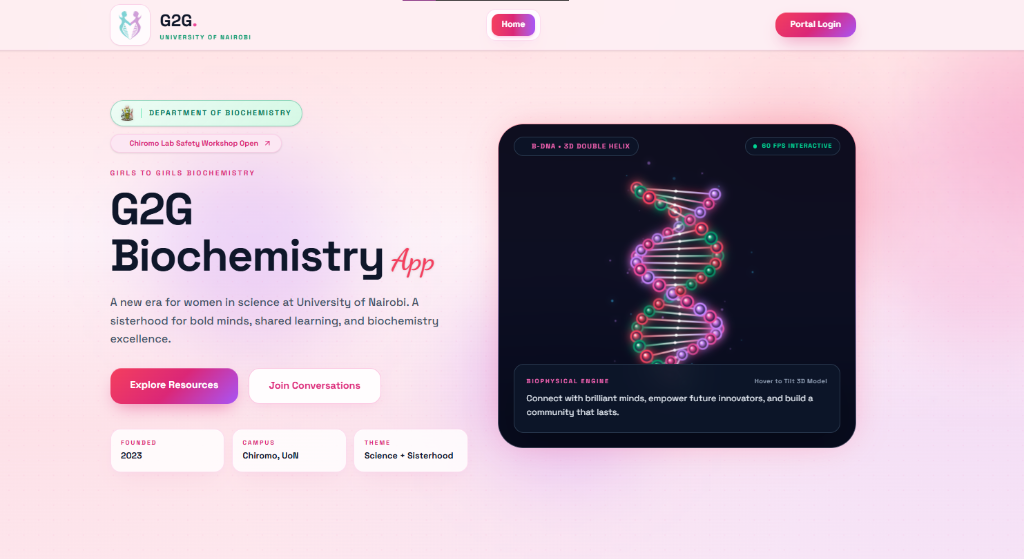
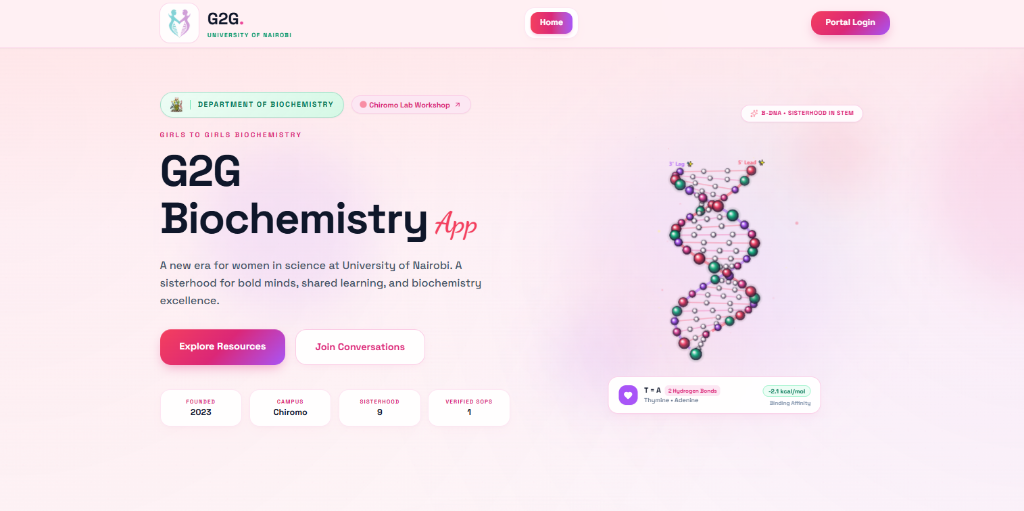
added PostMatic project, update asset images, and initialize project progress tracker

diff --git a/index.html b/index.html
@@ -101,7 +101,7 @@
                         Front-End Engineer // Flyrank AI</span><span class="typewriter-cursor">_</span>
                 </p>
                 <p class="hero-bio">
-                    Biochemistry Graduate turned <strong>Agentic Software Engineer</strong>. Building responsive AI
+                    Biochemistry Graduate turned <strong>Full-Stack AI Engineer</strong>. Building responsive AI
                     applications, quantitative market models, and computational molecular tools.
                 </p>
                 <div class="cta-buttons">
@@ -230,14 +230,14 @@
             <!-- Project Category Filter Tabs -->
             <div class="project-filters reveal" id="project-filters">
                 <button class="filter-tab active" data-filter="all">
-                    <span class="tab-bracket">[</span> ALL (6) <span class="tab-bracket">]</span>
+                    <span class="tab-bracket">[</span> ALL (7) <span class="tab-bracket">]</span>
                 </button>
                 <button class="filter-tab" data-filter="bio">
                     <span class="tab-bracket">[</span> BIOINFORMATICS &amp; DOCKING (4) <span
                         class="tab-bracket">]</span>
                 </button>
                 <button class="filter-tab" data-filter="web">
-                    <span class="tab-bracket">[</span> FULL-STACK WEB APPS (2) <span class="tab-bracket">]</span>
+                    <span class="tab-bracket">[</span> FULL-STACK WEB APPS (3) <span class="tab-bracket">]</span>
                 </button>
             </div>
 
@@ -246,7 +246,8 @@
                 <!-- Bio-Dock -->
                 <article class="project-card reveal hero-card" id="project-biodock" data-category="bio">
                     <div class="project-thumb-wrap">
-                        <img src="assets/projects/biodock.png" alt="Bio-Dock In-Silico Molecular Docking & 3D WebGL Visualization Platform Preview"
+                        <img src="assets/projects/biodock.png"
+                            alt="Bio-Dock In-Silico Molecular Docking & 3D WebGL Visualization Platform Preview"
                             class="project-thumb" loading="lazy">
                         <div class="thumb-overlay"></div>
                         <span class="badge badge-live"><span class="badge-dot"></span> Live Application</span>
@@ -257,7 +258,10 @@
                         </div>
                         <h3>Bio-Dock</h3>
                         <p>
-                            An asynchronous, full-stack in-silico ligand docking and 3D visualization web application. Brings molecular docking simulations to the web with an intuitive interface for running ligand-protein docking and visually analyzing structural interactions in a fully interactive 3D WebGL environment.
+                            An asynchronous, full-stack in-silico ligand docking and 3D visualization web application.
+                            Brings molecular docking simulations to the web with an intuitive interface for running
+                            ligand-protein docking and visually analyzing structural interactions in a fully interactive
+                            3D WebGL environment.
                         </p>
                         <ul class="tech-pills">
                             <li class="tech-pill">FastAPI (Python)</li>
@@ -272,6 +276,44 @@
                                 Launch Platform <span>&#8599;</span>
                             </a>
                             <button class="project-link link-details" data-project="biodock">
+                                Architecture &amp; Specs <span>&rarr;</span>
+                            </button>
+                        </div>
+                    </div>
+                </article>
+
+                <!-- PostMatic -->
+                <article class="project-card reveal" id="project-postmatic" data-category="web">
+                    <div class="project-thumb-wrap">
+                        <img src="assets/projects/postmatic.png" alt="PostMatic Autonomous Faceless Video SaaS Preview"
+                            class="project-thumb" loading="lazy">
+                        <div class="thumb-overlay"></div>
+                        <span class="badge badge-live"><span class="badge-dot"></span> Live SaaS</span>
+                    </div>
+                    <div class="project-content">
+                        <div class="project-meta">
+                            <span class="project-type">Full-Stack AI Video SaaS</span>
+                        </div>
+                        <h3>PostMatic</h3>
+                        <p>
+                            An autonomous faceless video generator and social publisher tailored for YouTube Shorts,
+                            TikTok, and Instagram Reels. Orchestrates AI multi-scene scriptwriting, neural voiceovers,
+                            dynamic karaoke subtitles, 4K b-roll sourcing, and FFmpeg cloud rendering into high-retention
+                            9:16 vertical videos.
+                        </p>
+                        <ul class="tech-pills">
+                            <li class="tech-pill">Next.js 16 (React 19)</li>
+                            <li class="tech-pill">FastAPI (Python)</li>
+                            <li class="tech-pill">Google Gemini</li>
+                            <li class="tech-pill">Supabase</li>
+                            <li class="tech-pill">FFmpeg &bull; Edge-TTS</li>
+                        </ul>
+                        <div class="project-links">
+                            <a href="https://post-matic.vercel.app/" target="_blank" rel="noopener noreferrer"
+                                class="project-link" id="link-postmatic-app">
+                                Launch Platform <span>&#8599;</span>
+                            </a>
+                            <button class="project-link link-details" data-project="postmatic">
                                 Architecture &amp; Specs <span>&rarr;</span>
                             </button>
                         </div>
@@ -319,7 +361,7 @@
                 <!-- DNA Counter -->
                 <article class="project-card reveal" id="project-dna" data-category="bio">
                     <div class="project-thumb-wrap">
-                        <img src="assets/projects/dna.jpg" alt="DNA Nucleotide Counter Dashboard Preview"
+                        <img src="assets/projects/dna.png" alt="DNA Nucleotide Counter Dashboard Preview"
                             class="project-thumb" loading="lazy">
                         <div class="thumb-overlay"></div>
                         <span class="badge badge-live"><span class="badge-dot"></span> Live Tool</span>
@@ -360,7 +402,7 @@
                 <!-- Garlic Research -->
                 <article class="project-card reveal" id="project-garlic" data-category="bio">
                     <div class="project-thumb-wrap">
-                        <img src="assets/projects/garlic.jpg" alt="Molecular Docking Simulation Preview"
+                        <img src="assets/projects/garlic.png" alt="Molecular Docking Simulation Preview"
                             class="project-thumb" loading="lazy">
                         <div class="thumb-overlay"></div>
                         <span class="badge badge-ongoing"><span class="badge-dot"></span> Active Research</span>
@@ -679,6 +721,11 @@
                 </div>
 
                 <div class="cmd-group-label">QUICK LAUNCH APPS</div>
+                <div class="cmd-item" data-action="link" data-url="https://post-matic.vercel.app/">
+                    <span class="cmd-item-icon">&#x2197;</span>
+                    <span class="cmd-item-title">Launch PostMatic Studio</span>
+                    <span class="cmd-item-desc">Autonomous Faceless Video SaaS</span>
+                </div>
                 <div class="cmd-item" data-action="link" data-url="https://bio-dock.vercel.app/">
                     <span class="cmd-item-icon">&#x2197;</span>
                     <span class="cmd-item-title">Launch Bio-Dock 3D Platform</span>
@@ -696,6 +743,11 @@
                 </div>
 
                 <div class="cmd-group-label">ACTIONS</div>
+                <div class="cmd-item" data-action="link" data-url="https://wa.me/254759663737?text=Hi%20Elias%2C%20I%20came%20across%20your%20portfolio%20and%20wanted%20to%20connect!">
+                    <span class="cmd-item-icon">&#x2197;</span>
+                    <span class="cmd-item-title">Chat on WhatsApp</span>
+                    <span class="cmd-item-desc">Direct Message (+254 759 663 737)</span>
+                </div>
                 <div class="cmd-item" data-action="download" data-url="assets/docs/resume.pdf">
                     <span class="cmd-item-icon">&#x2193;</span>
                     <span class="cmd-item-title">Download Resume / CV</span>
@@ -720,6 +772,18 @@
             </div>
         </div>
     </div>
+
+    <!-- ── Floating WhatsApp Comms Beacon ─────────────────────── -->
+    <a href="https://wa.me/254759663737?text=Hi%20Elias%2C%20I%20came%20across%20your%20portfolio%20and%20wanted%20to%20connect!"
+        class="wa-float-beacon" target="_blank" rel="noopener noreferrer"
+        aria-label="Direct WhatsApp Message to Elias">
+        <span class="wa-ping-dot" aria-hidden="true"></span>
+        <svg class="wa-icon" viewBox="0 0 24 24" fill="currentColor" aria-hidden="true">
+            <path
+                d="M.057 24l1.687-6.163c-1.041-1.804-1.588-3.849-1.587-5.946.003-6.556 5.338-11.891 11.893-11.891 3.181.001 6.167 1.24 8.413 3.488 2.245 2.248 3.481 5.236 3.48 8.414-.003 6.557-5.338 11.892-11.893 11.892-1.99-.001-3.951-.5-5.688-1.448l-6.305 1.654zm6.597-3.807c1.676.995 3.276 1.591 5.392 1.592 5.448 0 9.886-4.434 9.889-9.885.002-5.462-4.415-9.89-9.881-9.892-5.452 0-9.887 4.434-9.889 9.884-.001 2.225.651 3.891 1.746 5.634l-.999 3.648 3.742-.981zm11.387-5.464c-.074-.124-.272-.198-.57-.347-.297-.149-1.758-.868-2.031-.967-.272-.099-.47-.149-.669.149-.198.297-.768.967-.941 1.165-.173.198-.347.223-.644.074-.297-.149-1.255-.462-2.39-1.475-.883-.788-1.48-1.761-1.653-2.059-.173-.297-.018-.458.13-.606.134-.133.297-.347.446-.521.151-.172.2-.296.3-.495.099-.198.05-.372-.025-.521-.075-.148-.669-1.611-.916-2.206-.242-.579-.487-.501-.669-.51l-.57-.01c-.198 0-.52.074-.792.372s-1.04 1.016-1.04 2.479 1.065 2.876 1.213 3.074c.149.198 2.095 3.2 5.076 4.487.709.306 1.263.489 1.694.626.712.226 1.36.194 1.872.118.571-.085 1.758-.719 2.006-1.413.248-.695.248-1.29.173-1.414z" />
+        </svg>
+        <span class="wa-label">Chat on WhatsApp <span class="wa-label-arrow">&rarr;</span></span>
+    </a>
 
     <script src="script.js"></script>
 </body>

diff --git a/script.js b/script.js
@@ -162,7 +162,7 @@
   if (typewriterEl) {
     const roles = [
       'AI Front-End Engineer // Flyrank AI',
-      'Agentic Software Engineer // Next.js & React',
+      'Full-Stack AI Engineer',
       'Computational Biology Researcher // Molecular Docking',
       'Quantitative Researcher // WorldQuant BRAIN Gold Tier',
       'BSc. Biochemistry // University of Nairobi'
@@ -304,6 +304,33 @@
         { label: 'Launch Live Platform ↗', url: 'https://bio-dock.vercel.app/', primary: true }
       ]
     },
+    postmatic: {
+      tag: 'AUTONOMOUS AI VIDEO SAAS // NEXT.JS 16 + FASTAPI + GEMINI',
+      title: 'PostMatic: Autonomous Faceless Video SaaS & Publisher',
+      banner: 'assets/projects/postmatic.png',
+      desc: 'A full-stack, zero-OpEx autonomous faceless video generator and social publisher tailored for YouTube Shorts, TikTok, and Instagram Reels. It end-to-end automates scriptwriting, neural voiceover synthesis, synchronized karaoke subtitles, smart b-roll matching, and FFmpeg assembly into high-retention 9:16 vertical videos.',
+      problem: 'Content creators spend hours manually drafting scripts, recording voiceovers, hunting for stock footage, syncing captions word-by-word, and rendering vertical videos for social platforms.',
+      architecture: [
+        'Frontend UI: Next.js 16 (Turbopack), React 19, Tailwind CSS with live 9:16 smartphone player & multi-view workspaces',
+        'Backend API: FastAPI + Uvicorn (Python 3.12) asynchronous orchestration daemon & REST endpoints',
+        'LLM Scriptwriter: Google Gemini (google-genai SDK) with strict Pydantic multi-scene JSON schemas',
+        'Neural Voiceover: Microsoft edge-tts with sub-second word-boundary offsets for dynamic karaoke .ass captions',
+        'Media Pipeline: Pexels Video API v1 for 4K/HD clips + hardware-accelerated FFmpeg (libass / imageio-ffmpeg)',
+        'Database & Auth: Supabase (PostgreSQL + Row-Level Security + GoTrue Auth)',
+        'Cloud Worker & Publishing: Ephemeral GitHub Actions runners for rendering + YouTube Data API v3 OAuth 2.0 chunked uploads'
+      ],
+      features: [
+        'AI Multi-Scene Scriptwriter with structured scene hooks, retention pacing, and dynamic visual prompts',
+        'High-fidelity neural voiceover with sub-second word-boundary timing alignment',
+        'Dynamic Karaoke Subtitles with custom typography themes (The Bold Highlight, Sunset Glow, Neon Cyber)',
+        'Smart 9:16 vertical 4K b-roll sourcing, auto-trimming, background audio ducking, and H.264 rendering',
+        'Linear-grade Studio Console with live 9:16 smartphone player simulator and multi-view workspaces',
+        'Automated OAuth 2.0 YouTube Shorts chunked video publishing with background token refresh workers'
+      ],
+      links: [
+        { label: 'Launch Live Studio ↗', url: 'https://post-matic.vercel.app/', primary: true }
+      ]
+    },
     g2g: {
       tag: 'FULL-STACK WEB PLATFORM // NEXT.JS + SUPABASE',
       title: 'G2G Biochemistry Community Hub',
@@ -330,7 +357,7 @@
     dna: {
       tag: 'BIOINFORMATICS & GENOMICS TOOL // PYTHON + STREAMLIT',
       title: 'DNA Nucleotide Counter & Composition Visualizer',
-      banner: 'assets/projects/dna.jpg',
+      banner: 'assets/projects/dna.png',
       desc: 'An interactive bioinformatics web application designed for rapid genomic sequence analysis, calculating nucleotide distributions and compositional metrics from raw FASTA inputs.',
       problem: 'Manually parsing large FASTA sequence files and calculating GC-content ratios during molecular genetics coursework is time-consuming and error-prone.',
       architecture: [
@@ -354,7 +381,7 @@
     garlic: {
       tag: 'MOLECULAR DOCKING CAPSTONE // COMPUTATIONAL BIO',
       title: 'Garlic Secondary Metabolites vs. Aspergillus flavus',
-      banner: 'assets/projects/garlic.jpg',
+      banner: 'assets/projects/garlic.png',
       desc: 'Undergraduate capstone research investigating the computational binding affinity and pharmacological inhibition potential of secondary organosulfur metabolites from Allium sativum against pathogenic Aspergillus flavus target proteins.',
       problem: 'Aspergillus flavus produces carcinogenic aflatoxins that contaminate food supplies. Synthesizing synthetic fungicides causes resistance, necessitating the identification of natural bioactive inhibitors.',
       architecture: [

diff --git a/style.css b/style.css
@@ -1656,4 +1656,140 @@ img { display: block; max-width: 100%; }
 ::-webkit-scrollbar { width: 8px; }
 ::-webkit-scrollbar-track { background: var(--bg); }
 ::-webkit-scrollbar-thumb { background: #162232; border-radius: 4px; }
-::-webkit-scrollbar-thumb:hover { background: var(--accent); }
+::-webkit-scrollbar-thumb:hover { background: var(--accent); }
+
+/* ── 18. Floating WhatsApp Comms Beacon ─────────────────────── */
+.wa-float-beacon {
+  position: fixed;
+  bottom: 28px;
+  right: 28px;
+  z-index: 95;
+  display: flex;
+  align-items: center;
+  gap: 0;
+  height: 50px;
+  min-width: 50px;
+  padding: 0 13px;
+  background: rgba(15, 23, 32, 0.88);
+  backdrop-filter: blur(14px);
+  -webkit-backdrop-filter: blur(14px);
+  border: 1px solid rgba(16, 185, 129, 0.35);
+  border-radius: 9999px;
+  color: var(--text-primary);
+  text-decoration: none;
+  box-shadow: 0 8px 24px rgba(0, 0, 0, 0.65), 0 0 16px rgba(16, 185, 129, 0.18);
+  cursor: pointer;
+  transition: all 0.35s cubic-bezier(0.16, 1, 0.3, 1);
+  overflow: hidden;
+  user-select: none;
+  -webkit-user-select: none;
+}
+
+.wa-ping-dot {
+  position: absolute;
+  top: 9px;
+  left: 29px;
+  width: 9px;
+  height: 9px;
+  background: var(--accent);
+  border: 2px solid #080c10;
+  border-radius: 50%;
+  pointer-events: none;
+  box-shadow: 0 0 8px var(--accent);
+  animation: waRadarPulse 2.4s infinite;
+}
+
+@keyframes waRadarPulse {
+  0% {
+    box-shadow: 0 0 0 0 rgba(16, 185, 129, 0.7);
+  }
+  70% {
+    box-shadow: 0 0 0 9px rgba(16, 185, 129, 0);
+  }
+  100% {
+    box-shadow: 0 0 0 0 rgba(16, 185, 129, 0);
+  }
+}
+
+.wa-icon {
+  width: 24px;
+  height: 24px;
+  flex-shrink: 0;
+  fill: #10b981;
+  transition: transform 0.3s var(--ease), fill 0.3s var(--ease);
+}
+
+.wa-label {
+  font-family: var(--font-code);
+  font-size: 0.82rem;
+  font-weight: 600;
+  color: var(--text-primary);
+  white-space: nowrap;
+  opacity: 0;
+  max-width: 0;
+  transform: translateX(-6px);
+  transition: max-width 0.35s cubic-bezier(0.16, 1, 0.3, 1),
+              opacity 0.25s ease,
+              transform 0.35s cubic-bezier(0.16, 1, 0.3, 1);
+  letter-spacing: 0.02em;
+}
+
+.wa-label-arrow {
+  color: var(--accent);
+  margin-left: 4px;
+}
+
+@media (hover: hover) and (pointer: fine) {
+  .wa-float-beacon:hover {
+    background: rgba(15, 23, 32, 0.96);
+    border-color: var(--accent);
+    box-shadow: 0 12px 32px rgba(0, 0, 0, 0.85), 0 0 24px var(--accent-glow);
+    transform: translateY(-3px);
+    padding: 0 18px 0 14px;
+    gap: 10px;
+  }
+
+  .wa-float-beacon:hover .wa-icon {
+    fill: #34d399;
+    transform: scale(1.08);
+  }
+
+  .wa-float-beacon:hover .wa-label {
+    opacity: 1;
+    max-width: 200px;
+    transform: translateX(0);
+  }
+}
+
+/* Mobile Responsiveness */
+@media (max-width: 768px) {
+  .wa-float-beacon {
+    bottom: 20px;
+    right: 20px;
+    height: 46px;
+    min-width: 46px;
+    padding: 0 11px;
+    gap: 0;
+  }
+
+  .wa-ping-dot {
+    top: 7px;
+    left: 27px;
+    width: 8px;
+    height: 8px;
+  }
+
+  .wa-icon {
+    width: 22px;
+    height: 22px;
+  }
+
+  .wa-label {
+    display: none !important;
+  }
+
+  .wa-float-beacon:active {
+    transform: scale(0.94);
+    background: rgba(15, 23, 32, 0.98);
+  }
+}

diff --git a/.agents/rules/progress.md b/.agents/rules/progress.md
@@ -71,6 +71,12 @@
 | 4.2  | Functional testing (links, scroll, menu, email)   | ✅ Done        | Clean vanilla implementation                  |
 | 4.3  | Responsive testing (375px, 768px, 1280px, 1440px) | ✅ Done        | Responsive grids & mobile command button      |
 | 4.4  | Final review walkthrough with Elias               | ✅ Done        | Walkthrough artifact updated                  |
+| 4.5  | DNA project screenshot asset upgrade              | ✅ Done        | Replaced dna.jpg with live Genomic Analyzer screenshot (dna.png) |
+| 4.6  | G2G Biochemistry app screenshot update            | ✅ Done        | Replaced g2g.png with latest landing UI screenshot |
+| 4.7  | Garlic Research docking diagram update            | ✅ Done        | Replaced garlic.jpg with high-res molecular docking & binding interaction figure (garlic.png) |
+| 4.8  | Hero typewriter role update                       | ✅ Done        | Updated animated subtitle role to "Full-Stack AI Engineer" |
+| 4.9  | Added PostMatic full-stack project                | ✅ Done        | Integrated PostMatic SaaS into showcase cards, filter tabs, Quick-View modal & command palette |
+| 4.10 | Floating WhatsApp Comms Beacon                    | ✅ Done        | Implemented OLED glassmorphic floating WhatsApp button with live radar ping & hover expansion |
 
 ---
 
